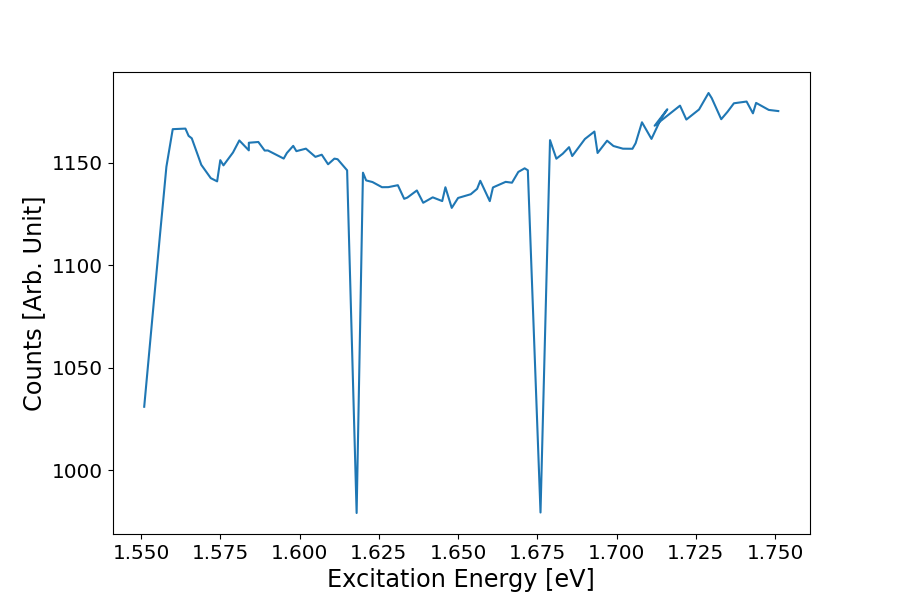
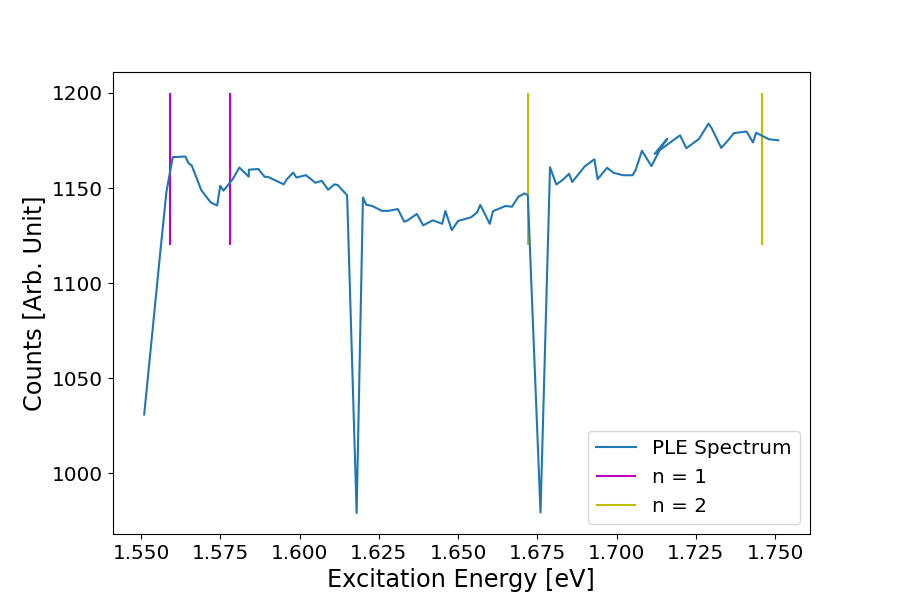
Finished all plotting and calculations.

diff --git a/PLE/Code/Raman.py b/PLE/Code/Raman.py
@@ -1,6 +1,13 @@
 #!/usr/bin/python
 
 import matplotlib.pyplot as plt
+from scipy.optimize import fsolve
+
+def GaAs(x):
+    return 291.50 - 42.10*x + 4.47*x**2 - 296
+
+def AlAs(x):
+    return 360.52 + 58.15*x - 15.87*x**2 - 386
 
 ## Read data
 
@@ -19,11 +26,17 @@ fileYRaman.close()
 
 plt.figure(figsize = (9,6))
 
-plt.xlabel("Frequency [Hz]", fontsize = "xx-large")
-plt.ylabel("Counts [Arb. Unit]", fontsize = "xx-large")
+plt.xlabel("Frequency [$cm^{-1}$]", fontsize = "xx-large")
+plt.ylabel("Intensity [Arb. Unit]", fontsize = "xx-large")
 plt.tick_params('both', labelsize="x-large")
 
 plt.plot(frequencyYRaman, countsYRaman)
 
+plt.text(300, 0.6, "GaAs", fontsize = "x-large")
+plt.text(390, 0.7, "AlAs", fontsize = "x-large")
+
 plt.savefig('../Fig/Raman_Y.png')
 #plt.show()
+
+print(fsolve(GaAs, 0.35))
+print(fsolve(AlAs, 0.35))

diff --git a/PLE/Code/PLE.py b/PLE/Code/PLE.py
@@ -23,7 +23,17 @@ plt.xlabel("Excitation Energy [eV]", fontsize = "xx-large")
 plt.ylabel("Counts [Arb. Unit]", fontsize = "xx-large")
 plt.tick_params('both', labelsize="x-large")
 
-plt.plot(energyYPLE, countsYPLE)
+plt.plot(energyYPLE, countsYPLE, label = "PLE Spectrum")
+
+plt.vlines(1.559, 1120, 1200, colors = 'm', label = "n = 1") # n1 hh
+plt.vlines(1.578, 1120, 1200, colors = 'm') # n1 lh
+plt.vlines(1.672, 1120, 1200, colors = 'y', label = "n = 2") # n2 hh
+plt.vlines(1.746, 1120, 1200, colors = 'y') # n2 lh
+
+#plt.vlines(1.604, 1120, 1200, colors = 'teal') # n13 hh
+#plt.vlines(1.740, 1120, 1200, colors = 'teal') # n24 3h
+
+plt.legend(fontsize = 'x-large', loc = 4)
 
 plt.savefig('../Fig/PLE_Y.png')
 #plt.show()

diff --git a/PLE/Code/PL.py b/PLE/Code/PL.py
@@ -87,6 +87,9 @@ plt.tick_params('both', labelsize="x-large")
 
 plt.plot(energyY720, countsY720)
 
+plt.text(1.51, 2.0e6, "Substrate", fontsize = "x-large", rotation = 45)
+plt.text(1.56, 1.5e6, "QW", fontsize = "x-large", rotation = 45)
+
 plt.savefig('../Fig/PLY720nm.png')
 #plt.show()
 
